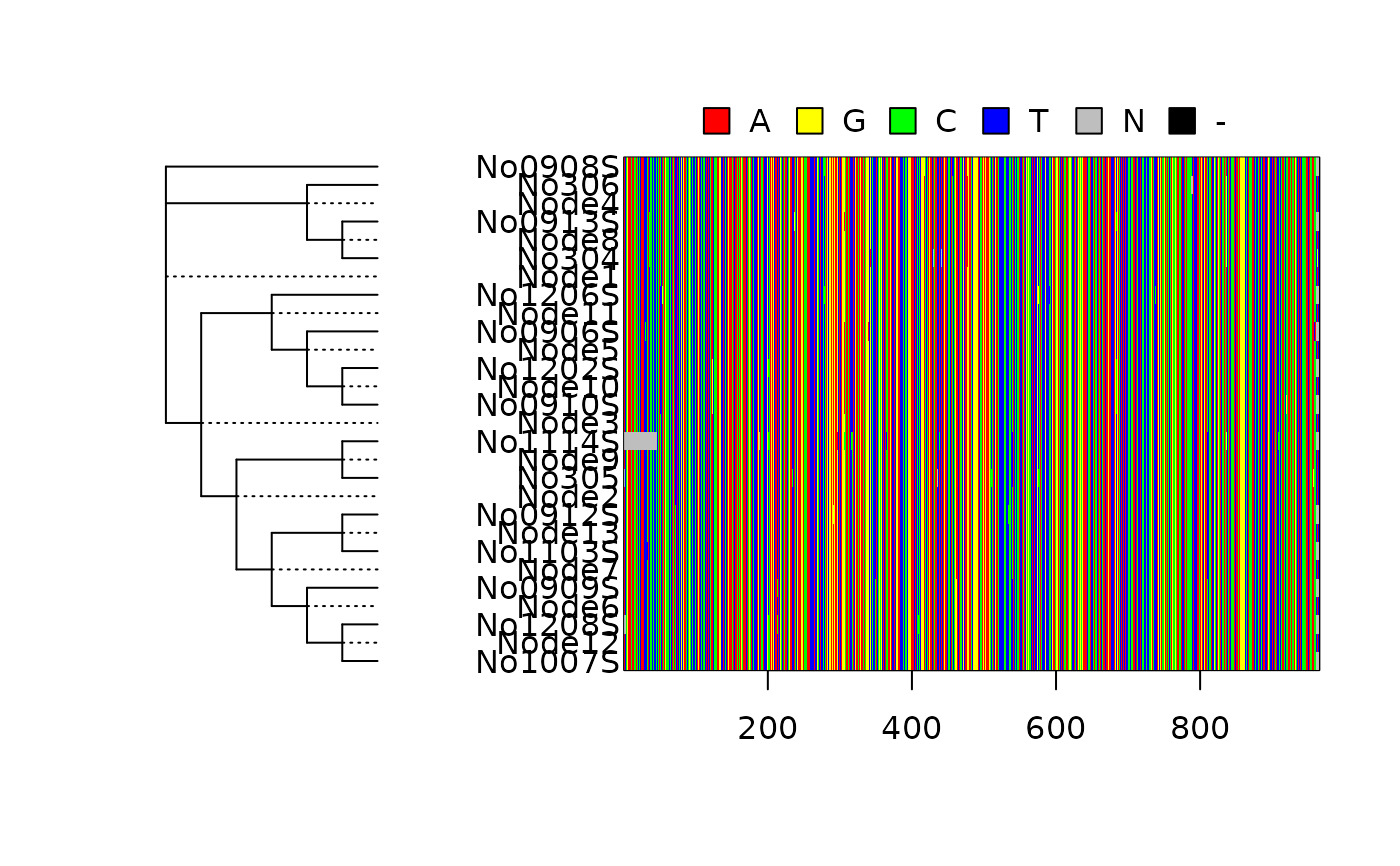
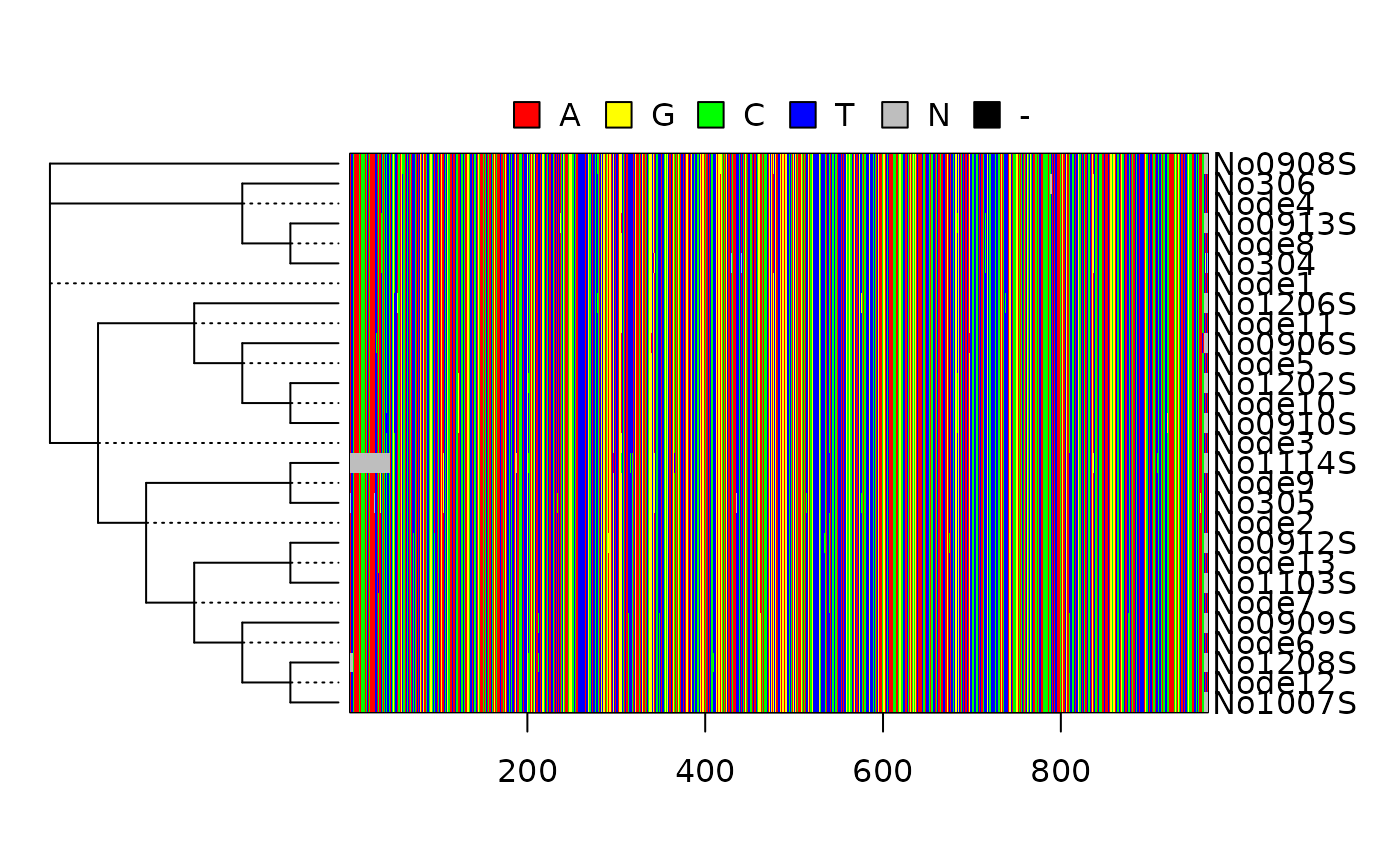
Deploying to gh-pages from @ KlausVigo/phangorn@4ae482c0ebfa1de88145066c84700601298763ab 🚀

diff --git a/articles/Ancestral.html b/articles/Ancestral.html
@@ -69,7 +69,7 @@ Schliep</h4>
 Technology<br><a class="author_email" href="mailto:#"></a><a href="mailto:[email redacted]" class="email">[email redacted]</a>
       </address>
                   
-            <h4 data-toc-skip class="date">2026-05-05</h4>
+            <h4 data-toc-skip class="date">2026-05-07</h4>
       
       <small class="dont-index">Source: <a href="https://github.com/KlausVigo/phangorn/blob/main/vignettes/Ancestral.Rmd" class="external-link"><code>vignettes/Ancestral.Rmd</code></a></small>
       <div class="d-none name"><code>Ancestral.Rmd</code></div>
@@ -160,8 +160,7 @@ al. 2000)</span> are implemented. Joint reconstructions is only
 available for models without rate variation (e.g. gamma models) or
 invariant sites.</p>
 <div class="sourceCode" id="cb7"><pre class="downlit sourceCode r">
-<code class="sourceCode R"><span><span class="va">fit</span> <span class="op">&lt;-</span> <span class="fu"><a href="../reference/pml.html">pml</a></span><span class="op">(</span><span class="va">tree</span>, <span class="va">primates</span><span class="op">)</span></span>
-<span><span class="va">fit</span> <span class="op">&lt;-</span> <span class="fu"><a href="../reference/pml.html">optim.pml</a></span><span class="op">(</span><span class="va">fit</span>, model<span class="op">=</span><span class="st">"F81"</span><span class="op">)</span></span></code></pre></div>
+<code class="sourceCode R"><span><span class="va">fit</span> <span class="op">&lt;-</span> <span class="fu"><a href="../reference/pml_bb.html">pml_bb</a></span><span class="op">(</span><span class="va">primates</span>, model<span class="op">=</span><span class="st">"K80"</span>, rearrangement<span class="op">=</span><span class="st">"NNI"</span><span class="op">)</span></span></code></pre></div>
 <p>We can assign the ancestral states according to the highest
 likelihood (“ml”):
 <math display="block" xmlns="http://www.w3.org/1998/Math/MathML"><semantics><mrow><mi>P</mi><mo stretchy="false" form="prefix">(</mo><msub><mi>x</mi><mi>r</mi></msub><mo>=</mo><mi>A</mi><mo stretchy="false" form="postfix">)</mo><mo>=</mo><mfrac><mrow><mi>L</mi><mo stretchy="false" form="prefix">(</mo><msub><mi>x</mi><mi>r</mi></msub><mo>=</mo><mi>A</mi><mo stretchy="false" form="postfix">)</mo></mrow><mrow><munder><mo>∑</mo><mrow><mi>k</mi><mo>∈</mo><mo stretchy="false" form="prefix">{</mo><mi>A</mi><mo>,</mo><mi>C</mi><mo>,</mo><mi>G</mi><mo>,</mo><mi>T</mi><mo stretchy="false" form="postfix">}</mo></mrow></munder><mi>L</mi><mo stretchy="false" form="prefix">(</mo><msub><mi>x</mi><mi>r</mi></msub><mo>=</mo><mi>k</mi><mo stretchy="false" form="postfix">)</mo></mrow></mfrac></mrow><annotation encoding="application/x-tex">
@@ -182,8 +181,8 @@ Both methods agree if all states (base frequencies) have equal
 probabilities.</p>
 <div class="sourceCode" id="cb8"><pre class="downlit sourceCode r">
 <code class="sourceCode R"><span><span class="va">anc.ml</span> <span class="op">&lt;-</span> <span class="fu"><a href="../reference/ancestral.pml.html">anc_pml</a></span><span class="op">(</span><span class="va">fit</span><span class="op">)</span></span></code></pre></div>
-<p>The differences of the two approaches for a specific site (17) are
-represented in the following figures.</p>
+<p>The are two differences plots the marginal distribution, we can
+either plot a specific site (17)</p>
 <div class="sourceCode" id="cb9"><pre class="downlit sourceCode r">
 <code class="sourceCode R"><span><span class="fu"><a href="../reference/plot.ancestral.html">plotAnc</a></span><span class="op">(</span><span class="va">anc.ml</span>, <span class="fl">17</span><span class="op">)</span></span>
 <span><span class="fu"><a href="https://rdrr.io/r/graphics/title.html" class="external-link">title</a></span><span class="op">(</span><span class="st">"ML"</span><span class="op">)</span></span></code></pre></div>
@@ -192,9 +191,23 @@ represented in the following figures.</p>
 Fig 4. Ancestral reconstruction the using the maximum likelihood.
 </p>
 </div>
+<p>or the sequence at a certain node:</p>
 <div class="sourceCode" id="cb10"><pre class="downlit sourceCode r">
-<code class="sourceCode R"><span><span class="co">#plotAnc(anc.bayes, 17)</span></span>
-<span><span class="co">#title("Bayes")</span></span></code></pre></div>
+<code class="sourceCode R"><span><span class="fu"><a href="../reference/plot.ancestral.html">plotSeqLogo</a></span><span class="op">(</span><span class="va">anc.ml</span>, node<span class="op">=</span><span class="st">"Node1"</span>, <span class="fl">1</span>, <span class="fl">20</span><span class="op">)</span></span></code></pre></div>
+<div class="figure">
+<img src="Ancestral_files/figure-html/seqLogo_ML-1.png" class="r-plt" alt="Fig 1. Ancestral reconstruction for a node." width="576"><p class="caption">
+Fig 1. Ancestral reconstruction for a node.
+</p>
+</div>
+<p>We can also plot the joint distribution as a heatmap. The heatmap
+function in phangorn allows not only to display characters at the tips
+but also the estimates for all internal nodes.</p>
+<div class="sourceCode" id="cb11"><pre class="downlit sourceCode r">
+<code class="sourceCode R"><span><span class="va">op</span> <span class="op">&lt;-</span> <span class="fu"><a href="https://rdrr.io/r/graphics/par.html" class="external-link">par</a></span><span class="op">(</span>mar<span class="op">=</span><span class="fu"><a href="https://rdrr.io/r/base/c.html" class="external-link">c</a></span><span class="op">(</span><span class="fl">4</span>,<span class="fl">1</span>,<span class="fl">4</span>,<span class="fl">5</span><span class="op">)</span><span class="op">)</span></span>
+<span><span class="fu"><a href="../reference/anc_heatmap.html">anc_heatmap</a></span><span class="op">(</span><span class="va">anc.ml</span>, select<span class="op">=</span><span class="fl">1</span><span class="op">:</span><span class="fl">50</span>, cex<span class="op">=</span><span class="fl">.8</span>, use.edge.length <span class="op">=</span> <span class="cn">T</span><span class="op">)</span></span></code></pre></div>
+<p><img src="Ancestral_files/figure-html/anc_heatmap-1.png" class="r-plt" alt="" width="576"></p>
+<div class="sourceCode" id="cb12"><pre class="downlit sourceCode r">
+<code class="sourceCode R"><span><span class="fu"><a href="https://rdrr.io/r/graphics/par.html" class="external-link">par</a></span><span class="op">(</span><span class="va">op</span><span class="op">)</span></span></code></pre></div>
 </div>
 <div class="section level2">
 <h2 id="fitting-for-discrete-comparative-data">Fitting for discrete comparative data<a class="anchor" aria-label="anchor" href="#fitting-for-discrete-comparative-data"></a>
@@ -207,7 +220,7 @@ comparative methods and we can use the function <em>ace</em> in the ape
 al. 2014)</span> or <em>fitMK</em> in the phytools <span class="citation">(Revell 2012)</span> package. Here we want to show how
 to fit these models using <em>optim.pml</em>.</p>
 <p>First we load a tree and create some data.</p>
-<div class="sourceCode" id="cb11"><pre class="downlit sourceCode r">
+<div class="sourceCode" id="cb13"><pre class="downlit sourceCode r">
 <code class="sourceCode R"><span><span class="fu"><a href="https://rdrr.io/r/utils/data.html" class="external-link">data</a></span><span class="op">(</span><span class="st">"bird.orders"</span><span class="op">)</span></span>
 <span><span class="va">x</span> <span class="op">&lt;-</span> <span class="fu"><a href="https://rdrr.io/r/base/c.html" class="external-link">c</a></span><span class="op">(</span><span class="fu"><a href="https://rdrr.io/r/base/rep.html" class="external-link">rep</a></span><span class="op">(</span><span class="fl">0</span>, <span class="fl">5</span><span class="op">)</span>, <span class="fu"><a href="https://rdrr.io/r/base/rep.html" class="external-link">rep</a></span><span class="op">(</span><span class="fl">1</span>, <span class="fl">18</span><span class="op">)</span><span class="op">)</span></span>
 <span><span class="va">x</span><span class="op">[</span><span class="fu"><a href="https://rdrr.io/r/base/c.html" class="external-link">c</a></span><span class="op">(</span><span class="fl">20</span>,<span class="fl">22</span>,<span class="fl">23</span><span class="op">)</span><span class="op">]</span> <span class="op">&lt;-</span> <span class="fl">2</span></span>
@@ -216,7 +229,7 @@ to fit these models using <em>optim.pml</em>.</p>
 <span><span class="va">dat</span> <span class="op">&lt;-</span> <span class="fu"><a href="../reference/as.phyDat.html">phyDat</a></span><span class="op">(</span><span class="va">x</span>, <span class="st">"USER"</span>, levels<span class="op">=</span><span class="fu"><a href="https://rdrr.io/r/base/c.html" class="external-link">c</a></span><span class="op">(</span><span class="fl">0</span>,<span class="fl">1</span>,<span class="fl">2</span><span class="op">)</span><span class="op">)</span></span></code></pre></div>
 <p>We than set up the <em>pml</em> object and optimize the model.
 Instead of optimizing the edge length we only optimize the rate.</p>
-<div class="sourceCode" id="cb12"><pre class="downlit sourceCode r">
+<div class="sourceCode" id="cb14"><pre class="downlit sourceCode r">
 <code class="sourceCode R"><span><span class="va">fit</span> <span class="op">&lt;-</span> <span class="fu"><a href="../reference/pml.html">pml</a></span><span class="op">(</span><span class="va">bird.orders</span>, <span class="va">dat</span><span class="op">)</span></span>
 <span><span class="va">fit_ER</span> <span class="op">&lt;-</span> <span class="fu"><a href="../reference/pml.html">optim.pml</a></span><span class="op">(</span><span class="va">fit</span>, optEdge <span class="op">=</span> <span class="cn">FALSE</span>, optRate<span class="op">=</span><span class="cn">TRUE</span><span class="op">)</span></span>
 <span><span class="va">fit_ER</span></span></code></pre></div>
@@ -241,7 +254,7 @@ Instead of optimizing the edge length we only optimize the rate.</p>
 <span><span class="co">## Rate: 0.007846</span></span></code></pre>
 <p>We can also fit the symmetric (<em>model=“SYM”</em>) or ordered
 metristic model (<em>model=“ORDERED”</em>).</p>
-<div class="sourceCode" id="cb14"><pre class="downlit sourceCode r">
+<div class="sourceCode" id="cb16"><pre class="downlit sourceCode r">
 <code class="sourceCode R"><span><span class="va">fit_SYM</span> <span class="op">&lt;-</span> <span class="fu"><a href="../reference/pml.html">optim.pml</a></span><span class="op">(</span><span class="va">fit</span>, optEdge <span class="op">=</span> <span class="cn">FALSE</span>, optRate<span class="op">=</span><span class="cn">TRUE</span>, model<span class="op">=</span><span class="st">"SYM"</span><span class="op">)</span></span>
 <span><span class="va">fit_SYM</span></span></code></pre></div>
 <pre><code><span><span class="co">## model: SYM </span></span>
@@ -265,23 +278,23 @@ metristic model (<em>model=“ORDERED”</em>).</p>
 <span><span class="co">## Rate: 0.00678</span></span></code></pre>
 <p>We can compare the estimate with the one from <em>ace</em> from
 <em>ape</em>.</p>
-<div class="sourceCode" id="cb16"><pre class="downlit sourceCode r">
+<div class="sourceCode" id="cb18"><pre class="downlit sourceCode r">
 <code class="sourceCode R"><span><span class="va">fit_ace</span> <span class="op">&lt;-</span> <span class="fu"><a href="https://rdrr.io/pkg/ape/man/ace.html" class="external-link">ace</a></span><span class="op">(</span><span class="va">x</span>, <span class="va">bird.orders</span>, model<span class="op">=</span><span class="st">"SYM"</span>, type <span class="op">=</span> <span class="st">"d"</span><span class="op">)</span></span></code></pre></div>
 <pre><code><span><span class="co">## Warning in sqrt(diag(solve(h))): NaNs produced</span></span></code></pre>
 <p>The log-likelihood values differ slightly as in phangorn the values
 get multiplied by the state frequencies. Thus if we add
 <code>log(1/3)</code> as we have three states to ace estimate the two
 estimates are almost identical.</p>
-<div class="sourceCode" id="cb18"><pre class="downlit sourceCode r">
+<div class="sourceCode" id="cb20"><pre class="downlit sourceCode r">
 <code class="sourceCode R"><span><span class="va">fit_SYM</span><span class="op">$</span><span class="va">logLik</span></span></code></pre></div>
 <pre><code><span><span class="co">## [1] -15.31</span></span></code></pre>
-<div class="sourceCode" id="cb20"><pre class="downlit sourceCode r">
+<div class="sourceCode" id="cb22"><pre class="downlit sourceCode r">
 <code class="sourceCode R"><span><span class="va">fit_ace</span><span class="op">$</span><span class="va">loglik</span><span class="op">+</span><span class="fu"><a href="https://rdrr.io/r/base/Log.html" class="external-link">log</a></span><span class="op">(</span><span class="fl">1</span><span class="op">/</span><span class="fl">3</span><span class="op">)</span></span></code></pre></div>
 <pre><code><span><span class="co">## [1] -15.31</span></span></code></pre>
-<div class="sourceCode" id="cb22"><pre class="downlit sourceCode r">
+<div class="sourceCode" id="cb24"><pre class="downlit sourceCode r">
 <code class="sourceCode R"><span><span class="fu"><a href="https://rdrr.io/r/base/all.equal.html" class="external-link">all.equal</a></span><span class="op">(</span><span class="va">fit_SYM</span><span class="op">$</span><span class="va">logLik</span>, <span class="va">fit_ace</span><span class="op">$</span><span class="va">loglik</span><span class="op">+</span><span class="fu"><a href="https://rdrr.io/r/base/Log.html" class="external-link">log</a></span><span class="op">(</span><span class="fl">1</span><span class="op">/</span><span class="fl">3</span><span class="op">)</span><span class="op">)</span></span></code></pre></div>
 <pre><code><span><span class="co">## [1] "Mean relative difference: 1.229e-07"</span></span></code></pre>
-<div class="sourceCode" id="cb24"><pre class="downlit sourceCode r">
+<div class="sourceCode" id="cb26"><pre class="downlit sourceCode r">
 <code class="sourceCode R"><span><span class="va">anc_SYM</span> <span class="op">&lt;-</span> <span class="fu"><a href="../reference/ancestral.pml.html">anc_pml</a></span><span class="op">(</span><span class="va">fit_SYM</span><span class="op">)</span></span>
 <span><span class="fu"><a href="../reference/plot.ancestral.html">plotAnc</a></span><span class="op">(</span><span class="va">anc_SYM</span><span class="op">)</span></span></code></pre></div>
 <div class="figure">

diff --git a/reference/reexports.html b/reference/reexports.html
@@ -3,14 +3,14 @@
 below to see their documentation.
 
   generics
-glance
+glance()
 
 
 "><meta property="og:description" content="These objects are imported from other packages. Follow the links
 below to see their documentation.
 
   generics
-glance
+glance()
 
 
 "><meta property="og:image" content="https://klausvigo.github.io/phangorn/logo.png"></head><body>
@@ -60,7 +60,7 @@ glance
     <p>These objects are imported from other packages. Follow the links
 below to see their documentation.</p>
 <dl><dt>generics</dt>
-<dd><p><code><a href="https://generics.r-lib.org/reference/glance.html" class="external-link">glance</a></code></p></dd>
+<dd><p><code><a href="https://generics.r-lib.org/reference/glance.html" class="external-link">glance()</a></code></p></dd>
 
 
 </dl></div>

diff --git a/reference/anc_heatmap.html b/reference/anc_heatmap.html
@@ -49,7 +49,7 @@
     <div class="section level2">
     <h2 id="ref-usage">Usage<a class="anchor" aria-label="anchor" href="#ref-usage"></a></h2>
     <div class="sourceCode"><pre class="sourceCode r"><code><span><span class="fu">anc_heatmap</span><span class="op">(</span><span class="va">x</span>, y <span class="op">=</span> <span class="cn">NULL</span>, use.edge.length <span class="op">=</span> <span class="cn">FALSE</span>, align_label <span class="op">=</span> <span class="cn">TRUE</span>,</span>
-<span>  clade <span class="op">=</span> <span class="cn">NULL</span>, select <span class="op">=</span> <span class="cn">NULL</span>, <span class="va">...</span><span class="op">)</span></span></code></pre></div>
+<span>  clade <span class="op">=</span> <span class="cn">NULL</span>, select <span class="op">=</span> <span class="cn">NULL</span>, cex.lab <span class="op">=</span> <span class="fl">1</span>, <span class="va">...</span><span class="op">)</span></span></code></pre></div>
     </div>
 
     <div class="section level2">
@@ -109,8 +109,10 @@ labels.</p></dd>
 <span class="r-in"><span><span class="va">tree</span> <span class="op">&lt;-</span> <span class="fu"><a href="parsimony.html">pratchet</a></span><span class="op">(</span><span class="va">wm</span><span class="op">)</span></span></span>
 <span class="r-in"><span><span class="va">tree</span> <span class="op">&lt;-</span> <span class="fu">makeNodeLabel</span><span class="op">(</span><span class="va">tree</span><span class="op">)</span></span></span>
 <span class="r-in"><span><span class="va">anc_mp</span> <span class="op">&lt;-</span> <span class="fu"><a href="ancestral.pml.html">anc_pars</a></span><span class="op">(</span><span class="va">tree</span>, <span class="va">wm</span><span class="op">)</span></span></span>
+<span class="r-in"><span><span class="va">op</span> <span class="op">&lt;-</span> <span class="fu"><a href="https://rdrr.io/r/graphics/par.html" class="external-link">par</a></span><span class="op">(</span>mar<span class="op">=</span><span class="fu"><a href="https://rdrr.io/r/base/c.html" class="external-link">c</a></span><span class="op">(</span><span class="fl">4</span>,<span class="fl">1</span>,<span class="fl">4</span>,<span class="fl">5</span><span class="op">)</span><span class="op">)</span></span></span>
 <span class="r-in"><span><span class="fu">anc_heatmap</span><span class="op">(</span><span class="va">anc_mp</span><span class="op">)</span></span></span>
 <span class="r-plt img"><img src="anc_heatmap-1.png" alt="" width="700" height="433"></span>
+<span class="r-in"><span><span class="fu"><a href="https://rdrr.io/r/graphics/par.html" class="external-link">par</a></span><span class="op">(</span><span class="va">op</span><span class="op">)</span></span></span>
 </code></pre></div>
     </div>
   </main><aside class="col-md-3"><nav id="toc" aria-label="Table of contents"><h2>On this page</h2>

diff --git a/reference/phangorn-package.html b/reference/phangorn-package.html
@@ -60,7 +60,8 @@ Allows for estimation of phylogenetic trees and networks using Maximum Likelihoo
     <div class="section level2">
     <h2 id="author">Author<a class="anchor" aria-label="anchor" href="#author"></a></h2>
     <p><strong>Maintainer</strong>: Klaus Schliep <a href="mailto:[email redacted]">[email redacted]</a> (<a href="https://orcid.org/0000-0003-2941-0161" class="external-link">ORCID</a>)</p>
-<p>Authors:</p><ul><li><p>Emmanuel Paradis (<a href="https://orcid.org/0000-0003-3092-2199" class="external-link">ORCID</a>)</p></li>
+<p>Authors:</p><ul><li><p>Klaus Schliep <a href="mailto:[email redacted]">[email redacted]</a> (<a href="https://orcid.org/0000-0003-2941-0161" class="external-link">ORCID</a>)</p></li>
+<li><p>Emmanuel Paradis (<a href="https://orcid.org/0000-0003-3092-2199" class="external-link">ORCID</a>)</p></li>
 <li><p>Leonardo de Oliveira Martins (<a href="https://orcid.org/0000-0001-5247-1320" class="external-link">ORCID</a>)</p></li>
 <li><p>Alastair Potts</p></li>
 <li><p>Iris Bardel-Kahr (<a href="https://orcid.org/0000-0002-8950-834X" class="external-link">ORCID</a>)</p></li>

diff --git a/articles/AdvancedFeatures.html b/articles/AdvancedFeatures.html
@@ -69,7 +69,7 @@ Iris Bardel-Kahr</h4>
 Graz<br><a class="author_email" href="mailto:#"></a><a href="mailto:[email redacted]" class="email">[email redacted]</a>
       </address>
                   
-            <h4 data-toc-skip class="date">2026-05-05</h4>
+            <h4 data-toc-skip class="date">2026-05-07</h4>
       
       <small class="dont-index">Source: <a href="https://github.com/KlausVigo/phangorn/blob/main/vignettes/AdvancedFeatures.Rmd" class="external-link"><code>vignettes/AdvancedFeatures.Rmd</code></a></small>
       <div class="d-none name"><code>AdvancedFeatures.Rmd</code></div>

diff --git a/articles/IntertwiningTreesAndNetworks.html b/articles/IntertwiningTreesAndNetworks.html
@@ -65,7 +65,7 @@
                         <h4 data-toc-skip class="author">Klaus Schliep,
 Alastair Potts, David Morrison and Guido Grimm</h4>
             
-            <h4 data-toc-skip class="date">May 05, 2026</h4>
+            <h4 data-toc-skip class="date">May 07, 2026</h4>
       
       <small class="dont-index">Source: <a href="https://github.com/KlausVigo/phangorn/blob/main/vignettes/IntertwiningTreesAndNetworks.Rmd" class="external-link"><code>vignettes/IntertwiningTreesAndNetworks.Rmd</code></a></small>
       <div class="d-none name"><code>IntertwiningTreesAndNetworks.Rmd</code></div>

diff --git a/articles/MLbyHand.html b/articles/MLbyHand.html
@@ -69,7 +69,7 @@ Iris Bardel-Kahr</h4>
 Graz<br><a class="author_email" href="mailto:#"></a><a href="mailto:[email redacted]" class="email">[email redacted]</a>
       </address>
                   
-            <h4 data-toc-skip class="date">2026-05-05</h4>
+            <h4 data-toc-skip class="date">2026-05-07</h4>
       
       <small class="dont-index">Source: <a href="https://github.com/KlausVigo/phangorn/blob/main/vignettes/MLbyHand.Rmd" class="external-link"><code>vignettes/MLbyHand.Rmd</code></a></small>
       <div class="d-none name"><code>MLbyHand.Rmd</code></div>

diff --git a/articles/Morphological.html b/articles/Morphological.html
@@ -69,7 +69,7 @@ Bardel-Kahr, Klaus Schliep</h4>
 Technology<br><a class="author_email" href="mailto:#"></a><a href="mailto:[email redacted]" class="email">[email redacted]</a>
       </address>
                   
-            <h4 data-toc-skip class="date">2026-05-05</h4>
+            <h4 data-toc-skip class="date">2026-05-07</h4>
       
       <small class="dont-index">Source: <a href="https://github.com/KlausVigo/phangorn/blob/main/vignettes/Morphological.Rmd" class="external-link"><code>vignettes/Morphological.Rmd</code></a></small>
       <div class="d-none name"><code>Morphological.Rmd</code></div>

diff --git a/articles/Networx.html b/articles/Networx.html
@@ -65,7 +65,7 @@
                         <h4 data-toc-skip class="author">Klaus
 Schliep</h4>
             
-            <h4 data-toc-skip class="date">May 05, 2026</h4>
+            <h4 data-toc-skip class="date">May 07, 2026</h4>
       
       <small class="dont-index">Source: <a href="https://github.com/KlausVigo/phangorn/blob/main/vignettes/Networx.Rmd" class="external-link"><code>vignettes/Networx.Rmd</code></a></small>
       <div class="d-none name"><code>Networx.Rmd</code></div>

diff --git a/articles/Parallel.html b/articles/Parallel.html
@@ -69,7 +69,7 @@ Schliep</h4>
 Technology<br><a class="author_email" href="mailto:#"></a><a href="mailto:[email redacted]" class="email">[email redacted]</a>
       </address>
                   
-            <h4 data-toc-skip class="date">2026-05-05</h4>
+            <h4 data-toc-skip class="date">2026-05-07</h4>
       
       <small class="dont-index">Source: <a href="https://github.com/KlausVigo/phangorn/blob/main/vignettes/Parallel.Rmd" class="external-link"><code>vignettes/Parallel.Rmd</code></a></small>
       <div class="d-none name"><code>Parallel.Rmd</code></div>

diff --git a/articles/Trees.html b/articles/Trees.html
@@ -69,7 +69,7 @@ Iris Bardel-Kahr</h4>
 Graz<br><a class="author_email" href="mailto:#"></a><a href="mailto:[email redacted]" class="email">[email redacted]</a>
       </address>
                   
-            <h4 data-toc-skip class="date">2026-05-05</h4>
+            <h4 data-toc-skip class="date">2026-05-07</h4>
       
       <small class="dont-index">Source: <a href="https://github.com/KlausVigo/phangorn/blob/main/vignettes/Trees.Rmd" class="external-link"><code>vignettes/Trees.Rmd</code></a></small>
       <div class="d-none name"><code>Trees.Rmd</code></div>

diff --git a/articles/Ancestral.md b/articles/Ancestral.md
@@ -99,8 +99,7 @@ invariant sites.
 
 ``` r
 
-fit <- pml(tree, primates)
-fit <- optim.pml(fit, model="F81")
+fit <- pml_bb(primates, model="K80", rearrangement="NNI")
 ```
 
 We can assign the ancestral states according to the highest likelihood
@@ -122,8 +121,8 @@ frequencies) have equal probabilities.
 anc.ml <- anc_pml(fit)
 ```
 
-The differences of the two approaches for a specific site (17) are
-represented in the following figures.
+The are two differences plots the marginal distribution, we can either
+plot a specific site (17)
 
 ``` r
 
@@ -136,10 +135,33 @@ likelihood.](Ancestral_files/figure-html/plotML-1.png)
 
 Fig 4. Ancestral reconstruction the using the maximum likelihood.
 
+or the sequence at a certain node:
+
 ``` r
 
-#plotAnc(anc.bayes, 17)
-#title("Bayes")
+plotSeqLogo(anc.ml, node="Node1", 1, 20)
+```
+
+![Fig 1. Ancestral reconstruction for a
+node.](Ancestral_files/figure-html/seqLogo_ML-1.png)
+
+Fig 1. Ancestral reconstruction for a node.
+
+We can also plot the joint distribution as a heatmap. The heatmap
+function in phangorn allows not only to display characters at the tips
+but also the estimates for all internal nodes.
+
+``` r
+
+op <- par(mar=c(4,1,4,5))
+anc_heatmap(anc.ml, select=1:50, cex=.8, use.edge.length = T)
+```
+
+![](Ancestral_files/figure-html/anc_heatmap-1.png)
+
+``` r
+
+par(op)
 ```
 
 ## Fitting for discrete comparative data